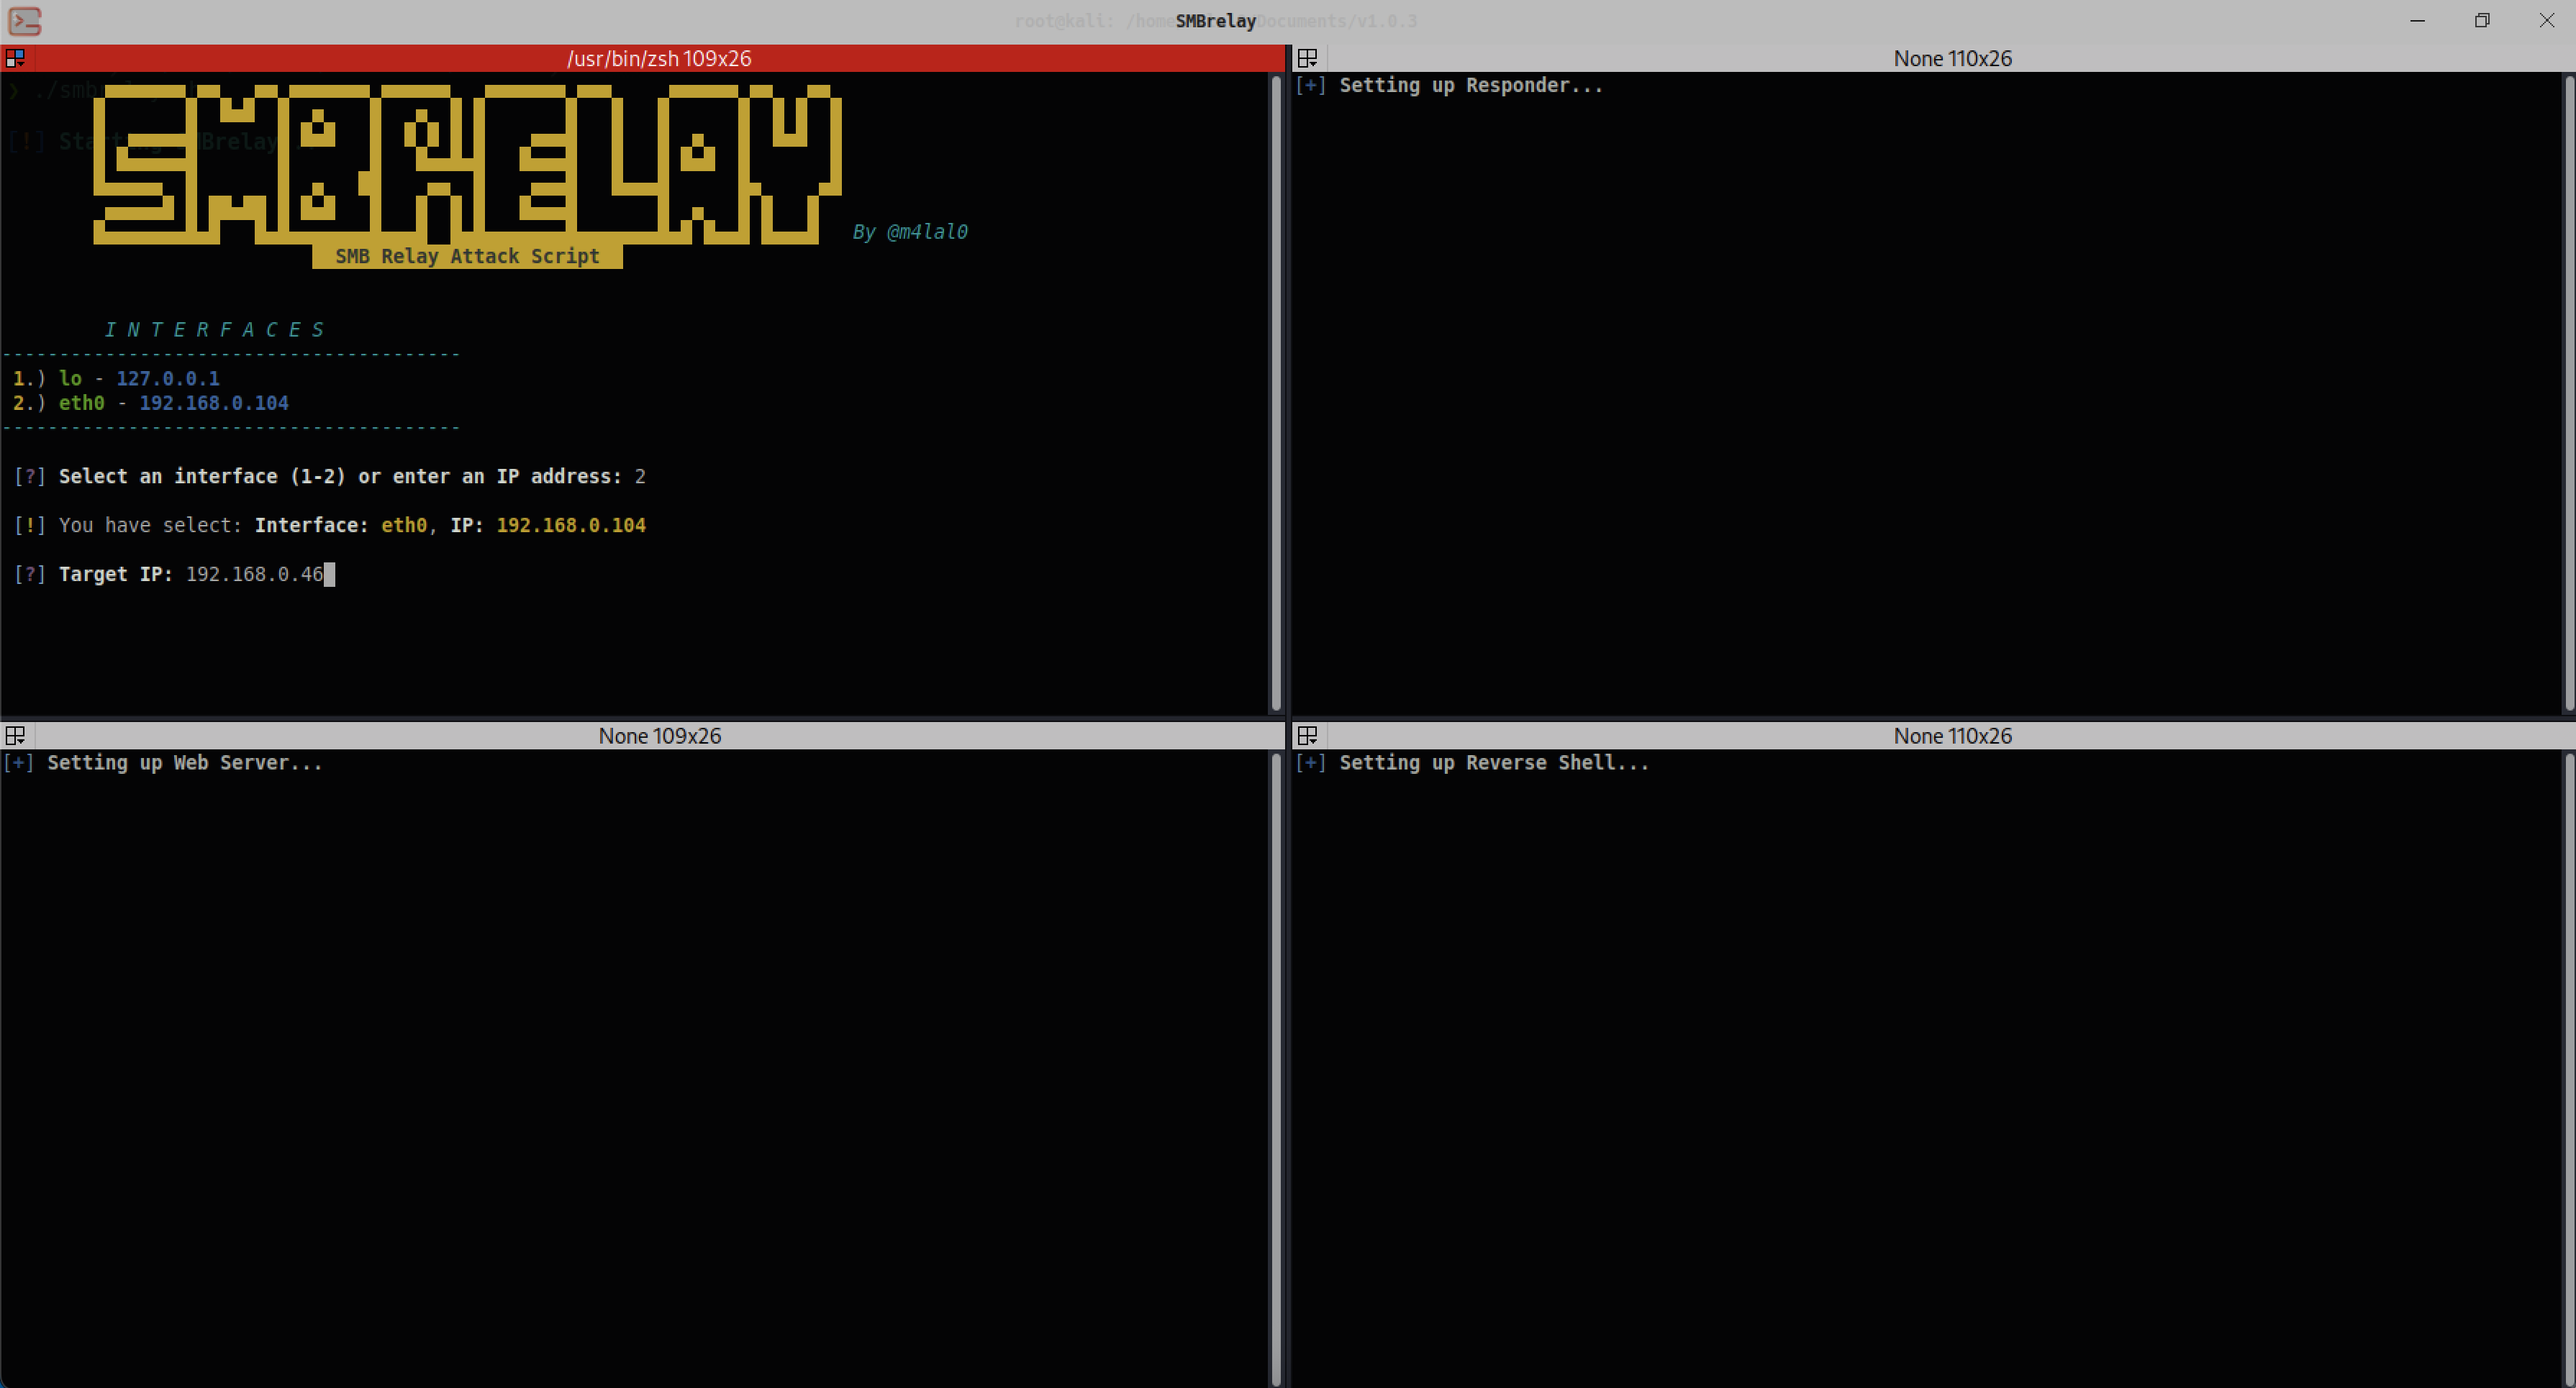
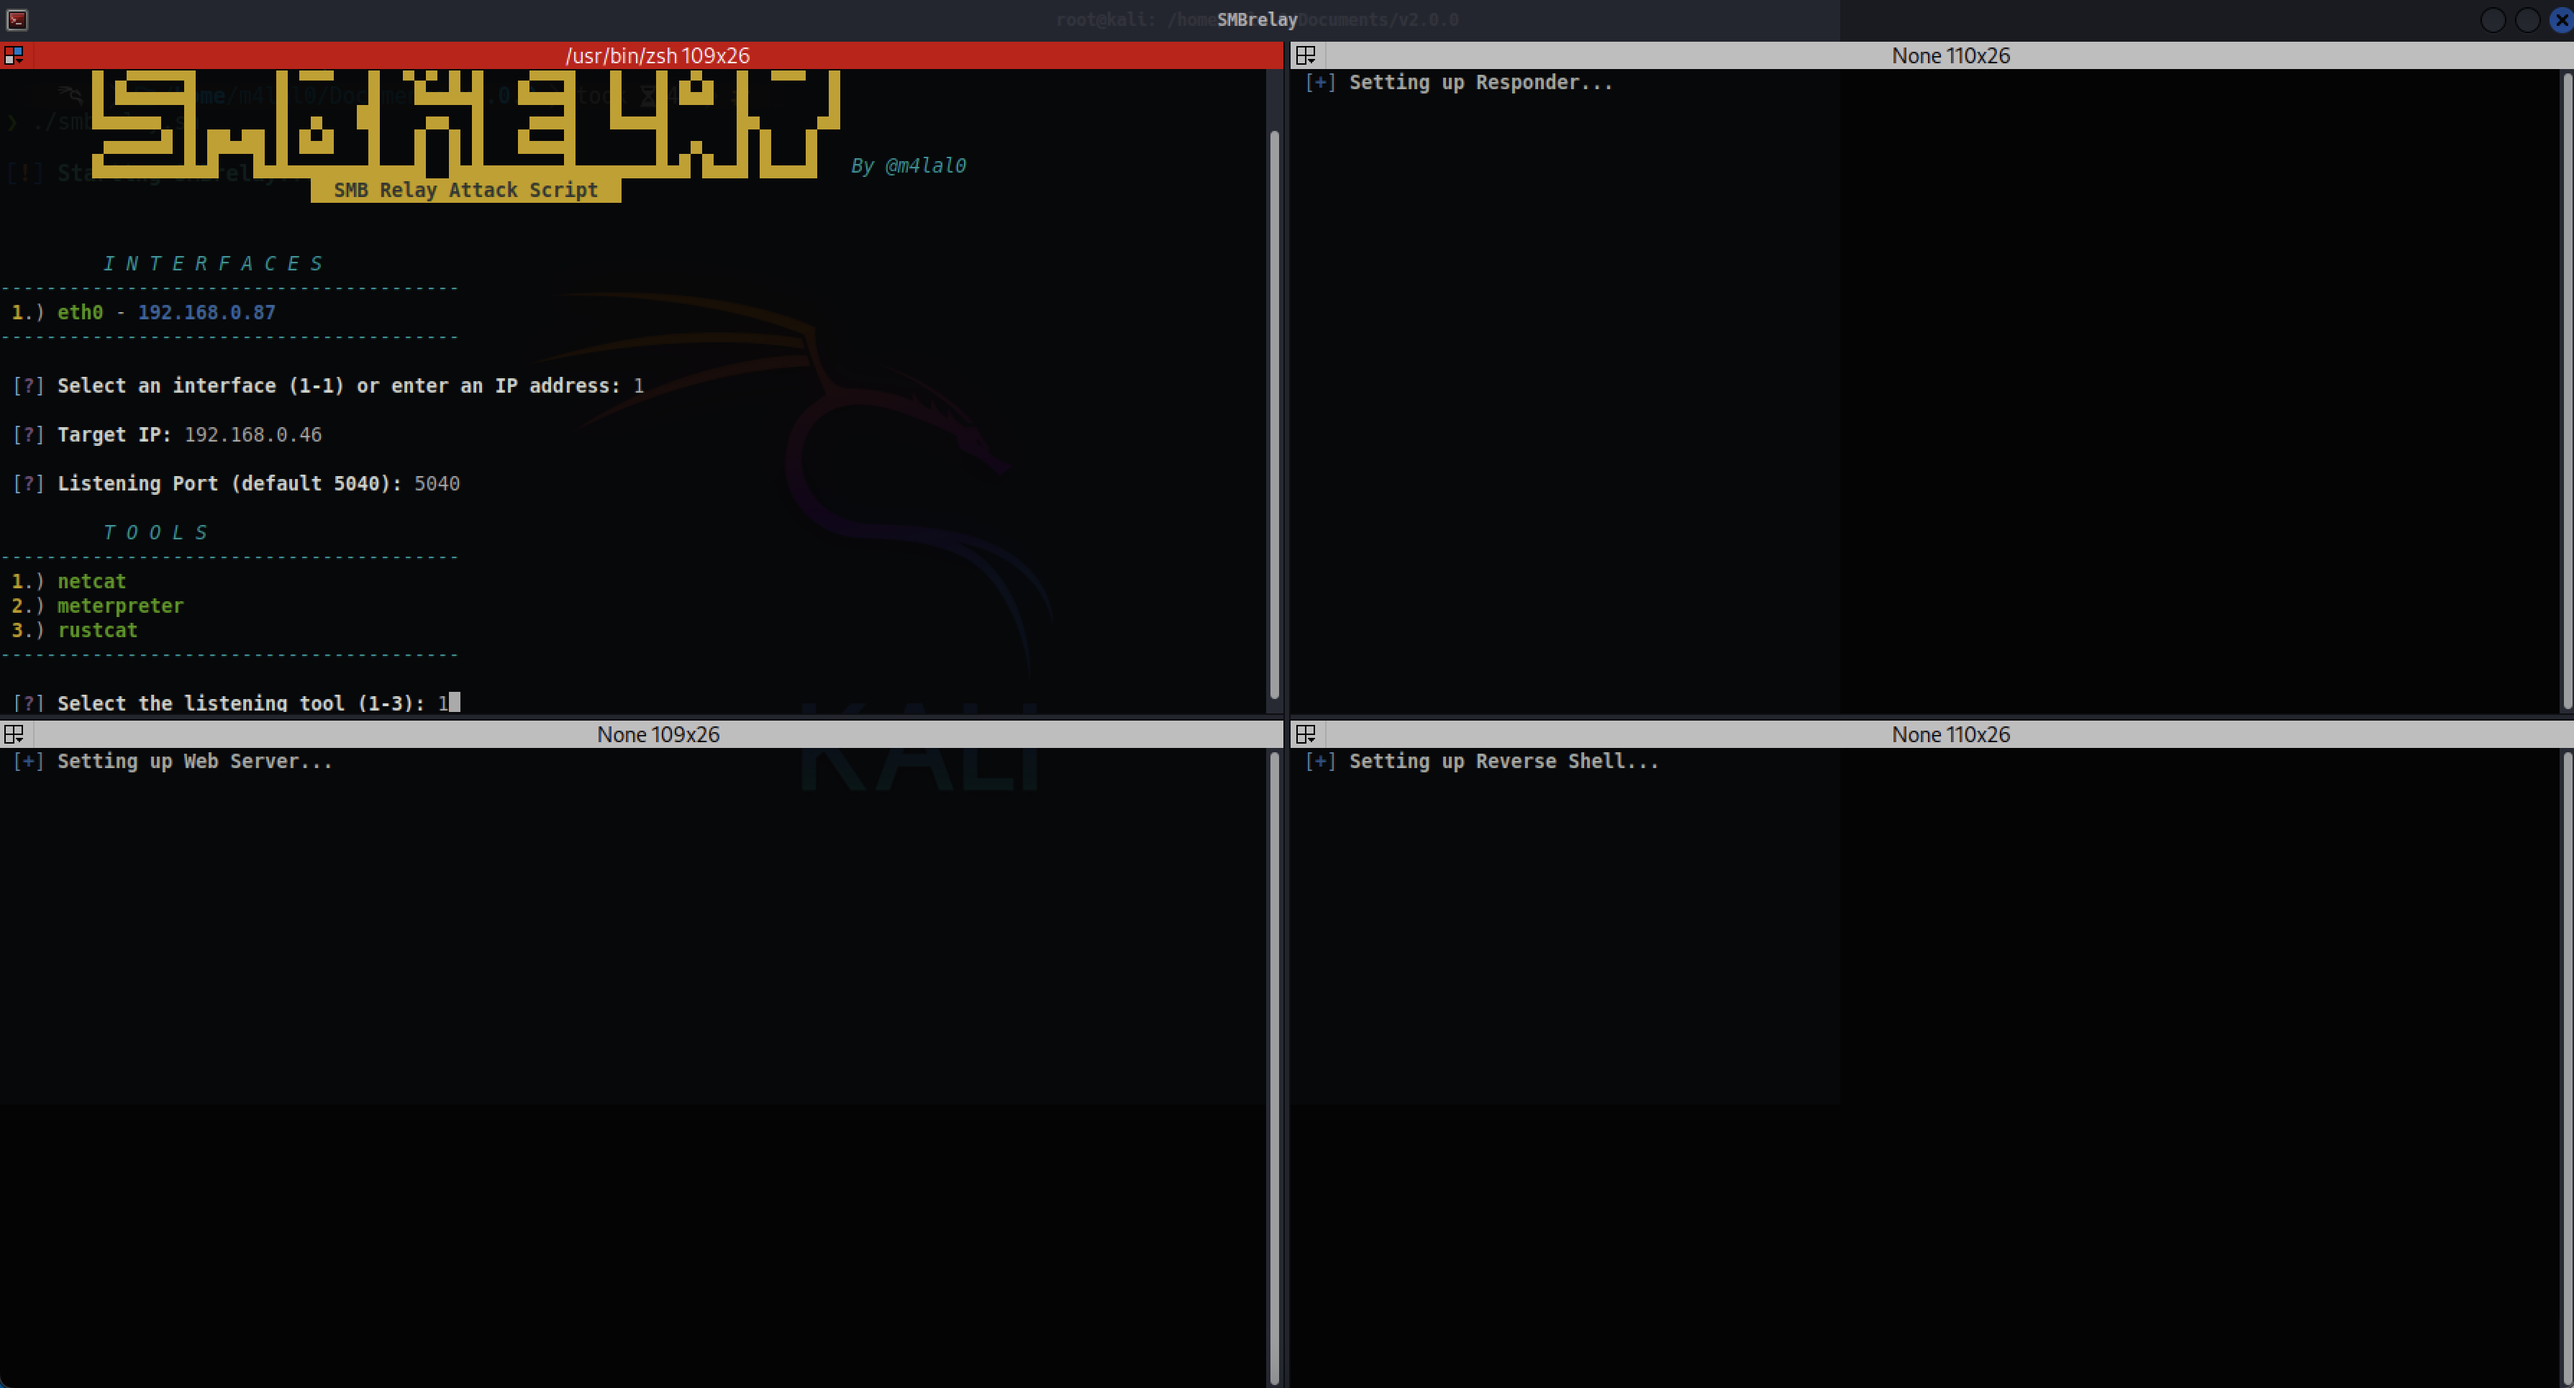
feat: update README

diff --git a/README.md b/README.md
@@ -2,8 +2,8 @@
 
 [![GitHub top language](https://img.shields.io/github/languages/top/m4lal0/smbrelay?logo=gnu-bash&style=for-the-badge)](#)
 [![GitHub repo size](https://img.shields.io/github/repo-size/m4lal0/smbrelay?logo=webpack&style=for-the-badge)](#)
-[![Kali Supported](https://img.shields.io/badge/Kali-Supported-blue?style=for-the-badge&logo=kali-linux)](#)
-[![Version](https://img.shields.io/badge/Version-1.0.3-blue?style=for-the-badge)](#)
+[![Kali Supported](https://img.shields.io/badge/Developed_on-Kali_Linux-blue?style=for-the-badge&logo=kali-linux)](#)
+[![Version](https://img.shields.io/badge/Version-2.0.0-blue?style=for-the-badge)](#)
 [![By](https://img.shields.io/badge/By-m4lal0-green?style=for-the-badge&logo=github)](#)
 
 
@@ -16,8 +16,8 @@ Desarrollada pensando en profesionales de la seguridad, SMBRelay está orientada
 
 ### 🎯 Características principales
 + 🔁 Automatización completa del ataque de NTLM Relay vía SMB.
-+ 🧠 Generación y entrega de cargas útiles con Nishang.
-+ 🖥 Obtención de reverse shell en sistemas Windows.
++ 🧠 Generación y entrega de cargas útiles con Nishang o MSFVenom.
++ 🖥 Obtención de reverse shell en sistemas Windows con NetCat, RustCat o Meterpreter.
 + 📡 Escucha activa para solicitudes SMB entrantes.
 + 🧪 Herramienta ideal para pruebas internas en entornos reales.
 
@@ -31,6 +31,8 @@ cd smbrelay; chmod +x smbrelay.sh
 ```
 
 # Configuración
+
+Ejecuta la aplicación de la siguiente manera como root:
 
 ```bash
 ./smbrelay.sh --install
@@ -54,9 +56,9 @@ La herramienta ejecutará la terminal Terminator con 4 divisiones.
 
 ***Arriba a la derecha*** : Lanzamiento de Responder en la interfaz de red establecida en la configuración.
 
-***Abajo a la izquierda*** : Lanzamiento del script Nishang y ntlmrelayx al equipo victima.
+***Abajo a la izquierda*** : Lanzamiento del payload y ntlmrelayx al equipo victima.
 
-***Abajo a la derecha*** : Lanzamiento de la Reverse Shell.
+***Abajo a la derecha*** : Lanzamiento de la Reverse Shell o Meterpreter.
 
 ![SMBRelay](./images/smbrelay3.png)
 
